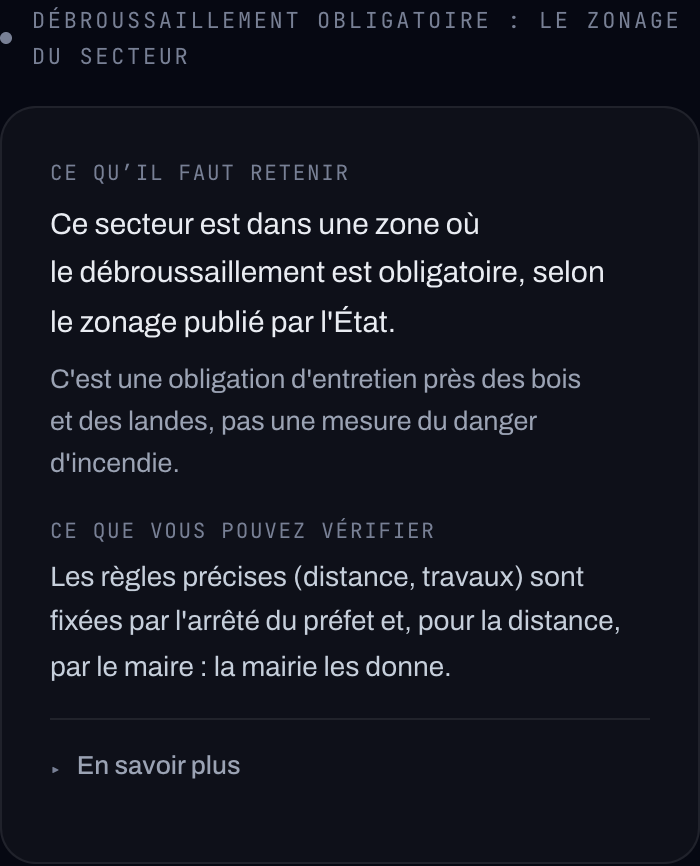
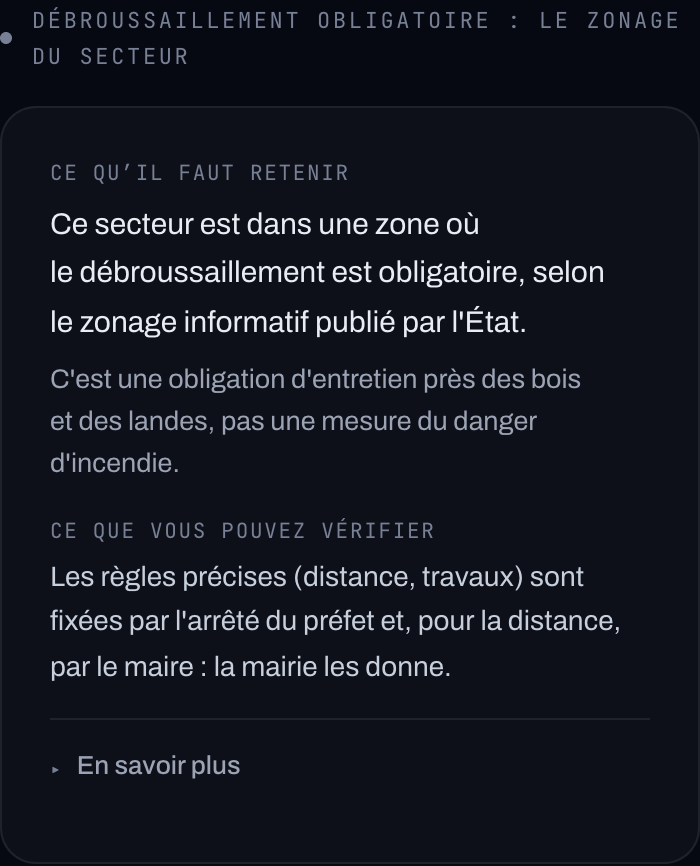
FUT-149 : documentation de la revue du 29/10/2026 (preuves avant/après, textes du code forestier)

Changed region(s): [[0.27, 0.343, 0.75, 0.4053]]

diff --git a/docs/audits/2026-10-28-fut149-debroussaillement/README.md b/docs/audits/2026-10-28-fut149-debroussaillement/README.md
@@ -111,11 +111,13 @@ par sommet créait 26 polygones invalides (jusqu'à 72 km²), qui auraient rendu
 
 ## Recette
 
-- **Tests** : `src/lib/fut149-debroussaillement.test.ts`, 71 tests (géométrie synthétique : contact, 1 cm, liseré,
-  coupe de tuile, cellule pleine, parcelle invalide, voisine, rue, immense ; départements ; pannes et versions ;
-  textes rendus et interdits ; lecteur Storage ; 24 adresses réelles contre un oracle en entiers). Suite complète,
-  seule, `--test-concurrency=1` : après réintégration de `main` (#110), `main` 3 754 → tête 3 825 (+71), 0 échec. `tsc` propre ; ESLint identique à `main`
-  (6 erreurs et 8 avertissements préexistants ; 0 erreur dans les fichiers de la PR).
+- **Tests** : `src/lib/fut149-debroussaillement.test.ts`, 80 tests (géométrie synthétique : contact, 1 cm, liseré,
+  coupe de tuile, vraie limite alignée sur la grille, cellule pleine, parcelle invalide, voisine, point hors de la
+  parcelle, rue, immense ; départements ; pannes et versions ; textes rendus et interdits ; lecteur Storage ; 24
+  adresses réelles contre deux oracles) et `scripts/debroussaillement/publier.test.mjs`, 8 scénarios de
+  publication sur Storage simulé. Suite complète, seule, `--test-concurrency=1`, après réintégration de `main`
+  (#108, #110, #112) : `main` 3 826 → tête 3 914 (+88), 0 échec. `tsc` propre ; ESLint identique à `main` (6 erreurs
+  et 8 avertissements préexistants ; 0 erreur dans les fichiers de la PR).
 - **Rendu** : banc `/dev/fut149?vue=section|autour|logement&cas=…` capturé par Chrome sans interface
   (`scripts/research/fut149-captures.mjs`) : 16 cas × 2 largeurs, **aucun défilement horizontal**, bloc à 814 px
   (bureau) et 300 px (mobile) dans la section Logement, 1 044 / 350 px dans Autour ; un rapport antérieur n'affiche
@@ -135,6 +137,18 @@ par sommet créait 26 polygones invalides (jusqu'à 72 km²), qui auraient rendu
 Validés par la revue : « en limite » pour les parcelles à cheval, le cas de Gonfaron, le décret n° 2024-405.
 Géométrie, tuiles et états inchangés : seuls les textes et leurs tests changent.
 
+## Revue indépendante du 29/10/2026 (NO GO sur `4f27d07d`) : corrections
+
+| Point | Défaut | Correction | Preuve |
+|---|---|---|---|
+| 1. Frontières alignées sur la grille (bloquant) | Toute arête posée sur le bord d'une cellule était écartée comme coupe de tuile, y compris une vraie limite : un point à 10 m pouvait être « en zone » ou « hors zone » | L'arête n'est écartée que là où la cellule voisine est couverte juste de l'autre côté (examen tous les ~5 m ; cellule absente = vraie limite ; cellule non chargée = vraie limite, par prudence) | 5 tests (vraie limite à 10 m des deux côtés, coupe contre une cellule pleine, couverture partielle de l'autre côté, autre objet de l'autre côté, parcelle contre la limite) : **échouent sur `4f27d07d`**, passent sur la tête. Édition nationale : 64 220 km d'arêtes alignées, **vraies limites alignées : 3 segments de 1 à 3 cm** (`scripts/research/fut149/limites-alignees.mjs`) : aucune lecture réelle ne change |
+| 2. Publication atomique (bloquant) | `envoyer` pouvait remplacer le manifeste d'une édition active (dépôt `x-upsert: true`) | Aucun remplacement hors `courant.json` (le client le refuse) ; manifeste et tuiles déjà en ligne : identiques à l'octet, sinon refus **avant toute écriture** ; reprise idempotente ; contenu nouveau sous une révision `AAAA-MM-JJ.N` (`construire.py --revision`) ; bascule après vérification de toutes les empreintes | `publier.test.mjs`, 8 scénarios avec le vrai publieur et le vrai lecteur : republication différente (manifeste seul, ou tuile) sous l'édition active refusée, zéro écriture, lecteurs inchangés ; reprise identique sans dépôt ; envoi coupé après une tuile : lecteurs inchangés, bascule refusée, reprise aboutie ; tuile corrompue : bascule refusée. Rejoué sur `4f27d07d` : **6 échecs sur 7**, dont « Missing expected rejection » pour le manifeste seul (l'ancien code le remplaçait) |
+| 3. Attribution des parcelles | `rattachement: "point"` suffisait | Le point doit être **dans** la parcelle (`classer`, tolérance nommée `TOLERANCE_POINT_PARCELLE_M` = 1 cm, celle de FUT-81) ; dehors : `hors_point` ; sur le trait : `limite` ; lecture au point, dite | Tests : parcelle voisine marquée « point » (zonage de la voisine jamais attribué), point sur le trait, oracle indépendant sur les 24 adresses réelles (aucune parcelle attribuée sans contenir le point). Seul changement réel : **Bordeaux, place de la Bourse**, point à **8 mm** du tracé, un seul candidat transmis : lu au point (reste « hors zone ») |
+| 4. Précision juridique | Les deux obligations étaient fondues dans une phrase | « deux obligations distinctes » : abords des constructions (50 m, que le maire peut porter à 100 m, propriétaire des constructions) ; terrains en zone urbaine d'un PLU (terrain entier, quelle que soit cette distance, propriétaire du terrain) ; « selon le zonage **informatif** publié par l'État » | Texte relu dans l'édition consolidée du code forestier (13/10/2026) ; tests éditoriaux dédiés |
+
+Cas réels rejoués avant/après (Gonfaron, Fréjus, Cazaux, Nîmes, Saint-Denis-d'Oléron et les 19 autres) : états et
+parts identiques, sauf Bordeaux (grain parcelle → point, même état). Aucune attribution voisine dans Logement.
+
 ## Réserves
 
 1. **Décret n° 2024-405** : référence vérifiée sur Légifrance par la revue du 28/10/2026.
@@ -145,9 +159,7 @@ Géométrie, tuiles et états inchangés : seuls les textes et leurs tests chang
    sur la section seule.
 5. **Bloc Autour** : grammaire historique de l'écran qui l'accueille (exception déclarée au cliquet du Relevé,
    comme FUT-146), à migrer avec FUT-118.
-6. **PR #108 (FUT-156)** : fusion d'essai faite le 28/10/2026 (tête 56e3369e). Quatre fichiers en conflit, tous
-   additifs (une source de chaque côté) : `route.ts` (import, promesse, déstructuration `…, bruitAerien,
-   debroussaillement, fibre]`, champ du rapport), `LogementModule.tsx` (libellé de source),
-   `logement-report-types.ts` (deux champs : garder le `/**` qui ouvre le commentaire de la fibre),
-   `logement-report-version.ts` (deux sources absentes, deux règles d'actualisation). Garder les deux côtés :
-   `tsc` propre, suite complète 3 882 / 3 882.
+6. **PR #108 (FUT-156)** : fusionnée sur `main` le 28/10/2026, réintégrée ici. Quatre conflits, tous additifs,
+   résolus en gardant les deux côtés (`route.ts`, `LogementModule.tsx`, `logement-report-types.ts`,
+   `logement-report-version.ts`) ; contre `main`, seules les deux lignes de déstructuration de la route sont
+   réécrites (`…, bruitAerien, debroussaillement, fibre]`) ; les fichiers de la fibre sont identiques à `main`.

diff --git a/docs/audits/2026-10-28-fut149-debroussaillement/01-source.md b/docs/audits/2026-10-28-fut149-debroussaillement/01-source.md
@@ -46,11 +46,19 @@ qui étaient ces secteurs ; la v7.0 n'en a plus (52 départements : 39 DDT(M), 6
 
 ## 3. Nature juridique
 
-- **Effet** (code forestier, L134-6) : dans les bois classés et à moins de 200 m, obligation notamment aux abords
-  des constructions, sur 50 m que **le maire** peut porter à 100 m (1°), et, en zone urbaine, sur le **terrain
-  lui-même, bâti ou non** (3°) ; d'autres cas visent ZAC, lotissements, campings et installations classées.
-  **Qui** doit débroussailler dépend de la situation (L134-8, revue du 28/10/2026) : l'écran ne désigne personne
-  d'office. Socle national : arrêté du 29/03/2024 (L131-10), modifié le 01/04/2025 ; les arrêtés préfectoraux
+- **Effet** (code forestier, L134-6 et L134-8, relus le 29/10/2026 dans l'édition consolidée du 13/10/2026 de
+  codes.droit.org, reprise de Légifrance, Légifrance refusant les accès automatisés ; copie dans
+  `~/Documents/futuree-debroussaillement/analyses/`). Pour les terrains à moins de 200 m des bois classés, **deux
+  obligations distinctes** parmi huit cas :
+  - **1°** aux abords des constructions, chantiers et installations, sur **50 m, que le maire peut porter à
+    100 m** ; à la charge du **propriétaire des constructions** (L134-8, 1°) ;
+  - **3°** sur les **terrains situés dans les zones urbaines** d'un plan local d'urbanisme (ou document en tenant
+    lieu), sur le terrain entier, sans condition de distance ni décision du maire ; à la charge du **propriétaire
+    du terrain** (L134-8, 2°).
+  Les autres cas : voies privées (2°, profondeur fixée par le préfet, 10 m au plus), zones urbaines des communes
+  sans PLU (4°, le préfet peut porter le 1° jusqu'à 200 m), ZAC, AFU et lotissements (5°), terrains de l'article
+  L444-1 du code de l'urbanisme (6°), campings (7°, 50 m portés à 100 m par le maire, à la charge du gestionnaire),
+  installations de l'article L515-32 du code de l'environnement (8°, à la charge de l'exploitant). Socle national : arrêté du 29/03/2024 (L131-10), modifié le 01/04/2025 ; les arrêtés préfectoraux
   devaient s'y conformer avant le 30/09/2025.
 - **Information de l'acquéreur et du locataire** : depuis le **01/01/2025**, le vendeur ou le bailleur d'un bien
   en zone soumise en informe l'acquéreur ou le locataire ; l'état des risques porte une fiche OLD (décret
@@ -151,7 +159,7 @@ le remplacer ».
 | Objet à diffusion ambiguë (Savoie) | « incertain ». |
 | Contradiction avec l'arrêté (3 communes du Vaucluse, cf. 02) | « incertain », motif dit. |
 | Obligation aux abords des constructions ou, en zone urbaine, sur le terrain | Parcelle à cheval (2-98 %) : part dite, « selon les règles qui s'appliquent à ce terrain, tout ou partie du bien peut être concerné », vérification des règles en mairie. |
-| Responsable selon la situation (L134-8) | « Qui doit l'entretenir dépend de la situation (le plus souvent le propriétaire de la construction) ». |
+| Responsable selon la situation (L134-8) | « Qui doit débroussailler dépend de la situation : le propriétaire des constructions pour leurs abords, celui du terrain s'il est en zone urbaine d'un plan local d'urbanisme. » |
 
 ## Références
 
@@ -160,4 +168,4 @@ le remplacer ».
 - Arrêté du 6 février 2024 (JORFTEXT000049111873), modifié les 20/05/2025 et 13/04/2026 ; annexes en PDF (AIDA/INERIS).
 - Ministère de la Transition écologique, fiche presse OLD (06/01/2026) ; ministère de l'Agriculture, fiches techniques de l'arrêté du 29/03/2024 (10/01/2025).
 - Décret n° 2024-405 du 29/04/2024 (vérifié sur Légifrance par la revue du 28/10/2026).
-- Code forestier, L134-6 et L134-8 (revue du 28/10/2026).
+- Code forestier, L134-6 et L134-8 : édition consolidée du 13/10/2026 (codes.droit.org, d'après Légifrance), relue le 29/10/2026.

diff --git a/docs/audits/2026-10-28-fut149-debroussaillement/02-contre-epreuves.md b/docs/audits/2026-10-28-fut149-debroussaillement/02-contre-epreuves.md
@@ -97,7 +97,7 @@ Autour : le point seul.
 | **13** Chemin Boudet, Saint-Denis-d'Oléron | numéro · point (proximité) | en limite | en limite (dedans) | Adresse en limite du zonage |
 | **855** Chemin Boudet, Saint-Denis-d'Oléron | numéro · parcelle | hors zone | hors zone | Hors du zonage publié |
 | Chemin Boudet (rue seule) | rue · point (secteur) | en limite | en limite | Adresse en limite du zonage |
-| 1 Place de la Bourse, Bordeaux | numéro · parcelle | hors zone (Gironde couverte) | hors zone | Hors du zonage publié |
+| 1 Place de la Bourse, Bordeaux | numéro · point (point à 8 mm du tracé de la parcelle : « sur la limite », revue du 29/10/2026) | hors zone (Gironde couverte) | hors zone | Hors du zonage publié |
 | 20 Place Bellecour, Lyon | numéro · point | non couvert (Rhône) | non couvert | Aucun zonage publié pour ce département |
 | 1 Cours Napoléon, Ajaccio | numéro · parcelle | hors zone (2A couvert) | hors zone | Hors du zonage publié |
 
@@ -112,3 +112,13 @@ pas en dehors : la carte des bois du Var date de 2008, et l'écran le dit.
 Le contrôle a été refait par le **vrai chemin serveur** (`lireDebroussaillementAdresse` : `fetch`, empreintes
 SHA-256, cache) contre une imitation locale de l'API Storage servant l'**édition complète** (2 453 tuiles) :
 48 lectures sur 48 identiques à la lib pure (`scripts/research/fut149-storage-local.mjs`).
+
+## 5. Revue du 29/10/2026
+
+- **Vraies limites alignées sur la grille**, mesurées sur l'édition nationale construite (sans la reconstruire) :
+  64 220 km d'arêtes posées sur un bord de cellule ; là où la cellule voisine n'a pas de zone juste de l'autre côté,
+  il reste 3 segments de 1 à 3 cm (artefacts d'arrondi au croisement d'une limite et de la grille). La correction
+  ne change donc aucune lecture réelle de cette édition ; elle rend la règle juste pour toute édition.
+- **Avant/après sur les 24 adresses** : états, parts et causes identiques, sauf Bordeaux (lecture au point : le
+  point est à 8 mm du tracé de la parcelle).
+- **Publication** : `scripts/debroussaillement/publier.test.mjs` (8 scénarios, Storage simulé), voir le README.
